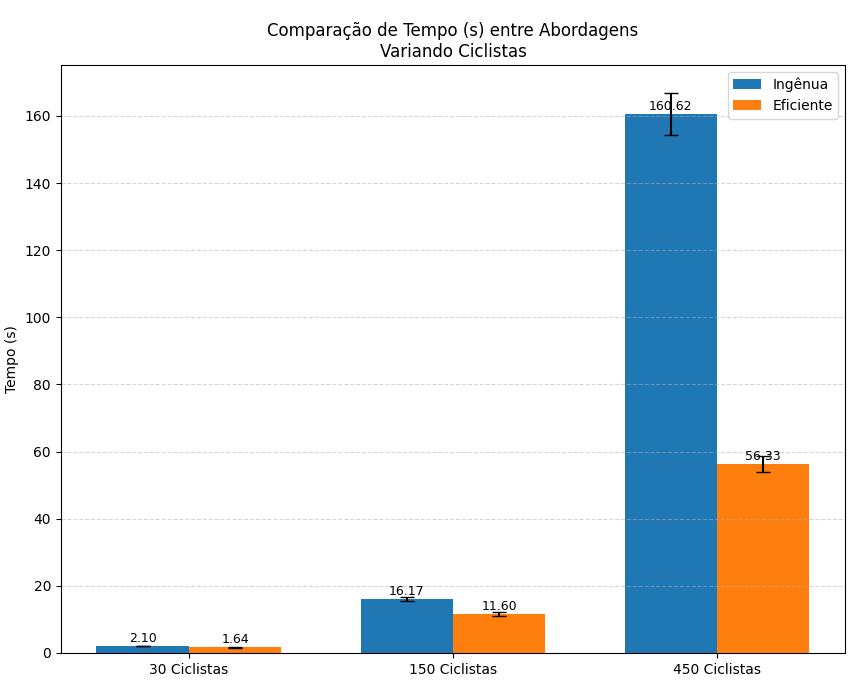
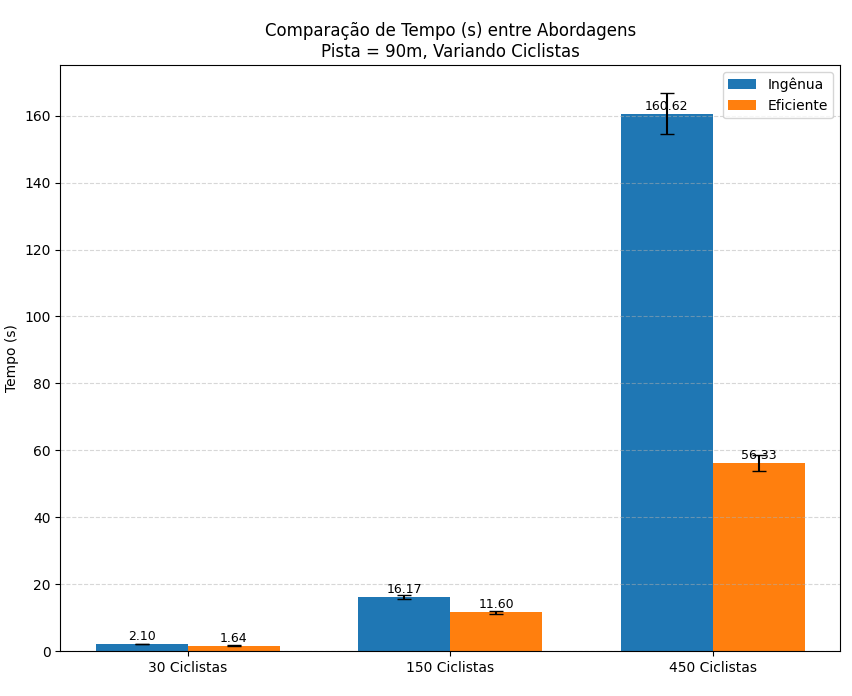
Todos os gráficos

diff --git a/EP2/src/graficos.py b/EP2/src/graficos.py
@@ -35,7 +35,8 @@ def plotar_comparacoes_pares(arquivos, modo):
         # label1 = f'Ingênua'
         # label2 = f'Eficiente'
         # labels.append((label1, label2))
-        labels = [30, 150, 450]
+        labels = [30, 150, 500]
+        # labels = [30, 150, 450]
 
     x = np.arange(3)  # três agrupamentos
     largura = 0.35
@@ -56,9 +57,9 @@ def plotar_comparacoes_pares(arquivos, modo):
                 f'{height:.2f}', ha='center', va='bottom', fontsize=9)
 
     ax.set_ylabel(nome_y)
-    ax.set_title(f'Comparação de {nome_y} entre Abordagens\nVariando Ciclistas')
+    ax.set_title(f'Comparação de {nome_y} entre Abordagens\nCiclistas = 150, Variando Pista')
     ax.set_xticks(x)
-    ax.set_xticklabels([f'{i} Ciclistas' for i in labels])
+    ax.set_xticklabels([f'Pista de {i}m' for i in labels])
     # ax.set_xticklabels([f'{l1} vs {l2}' for l1, l2 in labels])
     ax.legend()
     plt.tight_layout()
